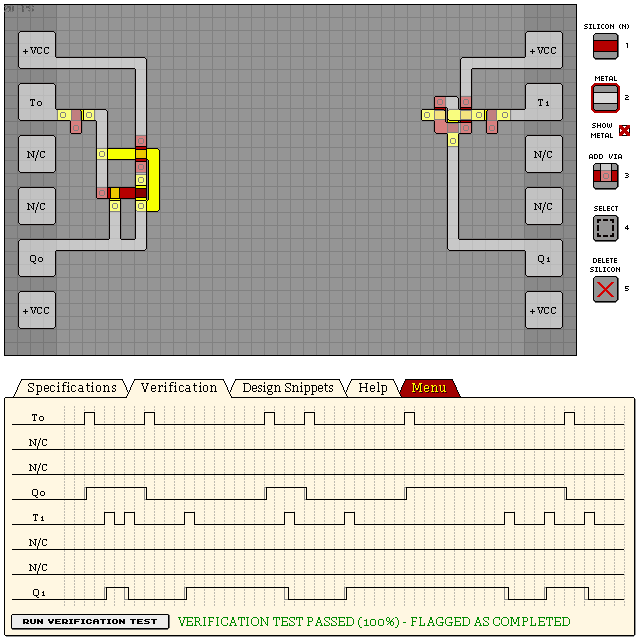
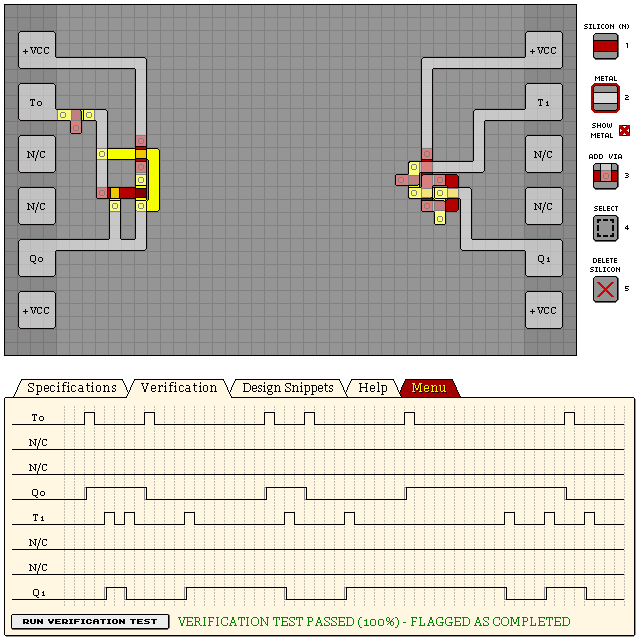
smaller and more accurate t latches

Changed region(s): [[0.625, 0.0625, 0.8125, 0.4062]]

diff --git a/snippets/t-latch.md b/snippets/t-latch.md
@@ -1,15 +1,25 @@
 # T Latches
 
+This T-Latch comes in two flavours:
+
+a) Larger but very accurate. Rising/falling lag of 0/1.
+
+b) Slightly smaller but less accurate. Rising/falling lag of 1/1.
+
 ```
[8 lines of base64/hex data omitted]
-heI1PYCB8iiqVSWPztgLowhpZq9yE+lpskrge1LZXZEesZTHsQ==
[12 lines of base64/hex data omitted]
+Pl94uwbjacmzveyzvGhnRrofv0gYyIo=
 ```
 
 ![T LATCH](./assets/t-latch.png)
@@ -17,47 +27,25 @@ heI1PYCB8iiqVSWPztgLowhpZq9yE+lpskrge1LZXZEesZTHsQ==
 
 ## T Latch in use with simplified variant
 
-On the left shows a simplified implementation of this T-Latch. At it's core, it is a simple
+On the left shows a simplified implementation of a T-Latch. At it's core, it is a simple
 SR-Latch, with both S+R inputs connected, forming T. R is only available when the output is high.
 There is a major problem with this approach: the latch will oscillate while T is high, as S will
-allow R to open. To combat this, we pulse T through a PNP gate to take advantage of the propagation
-delay within the latch.
+allow R to open. To combat this, we add a PNP gate in order to trigger T with a short pulse so that
+R does not receive a high signal, as it's NPN hasn't had enough time to open.
 
 ```
[7 lines of base64/hex data omitted]
-Je3TSLf/CgXV3t2q8ARH+gHyjcdH
[8 lines of base64/hex data omitted]
+ZI41H403ZKQfNXDHag==
 ```
 
 ![T LATCH - usage](./assets/t-latch-usage.png)
-
-## Bulky T Latch design
-
-Bulkier, but more accurate. Mirrored T Latch snippets:
-
-```
[13 lines of base64/hex data omitted]
-wt8FxT6KNDn+ADSIyH8=
-```
-
-![T LATCH - bulky](./assets/t-latch-bulky.png)
 
 
 ## See Also
